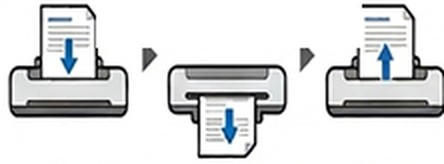
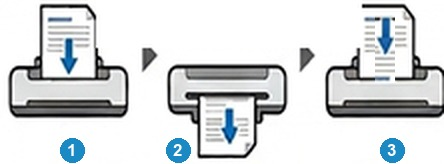
fix: 여러 장 코팅 그림 3번 화살표 방향 수정, 번호 표시 및 순서 설명 추가

diff --git a/guide-coat.html b/guide-coat.html
@@ -312,6 +312,9 @@ footer{background:#111827;color:rgba(255,255,255,.55);padding:60px 6%}
 .adfw-box.pic li img{flex:0 0 auto;width:104px;height:78px;object-fit:contain;background:#fff;border:1px solid #E5E7EB;border-radius:6px}
 .adfw-box.pic li.wide{flex-direction:column;align-items:flex-start;gap:6px}
 .adfw-box.pic li.wide img{width:100%;max-width:240px;height:auto}
+.adfw-box.pic ol.seq{list-style:none;counter-reset:s;margin:8px 0 0;padding:0}
+.adfw-box.pic ol.seq li{display:block;counter-increment:s;position:relative;padding-left:26px;margin-bottom:5px}
+.adfw-box.pic ol.seq li::before{content:counter(s);position:absolute;left:0;top:1px;width:19px;height:19px;border-radius:50%;background:#1B8AC4;color:#fff;font-size:12px;font-weight:900;display:flex;align-items:center;justify-content:center}
 </style>
 </head>
 <body>
@@ -608,7 +611,7 @@ footer{background:#111827;color:rgba(255,255,255,.55);padding:60px 6%}
           <ul>
             <li><img src="images/coat/pl-ok-closed.jpg" alt="막힌 부분부터 넣는 것이 맞고 반대로 넣으면 안 됨" loading="lazy"><div>코팅지의 <b>막힌 부분부터</b> 넣으세요. (필수)</div></li>
             <li><img src="images/coat/pl-s7.jpg" alt="자동으로 빨려 들어갈 때까지 밀어 넣는 모습" loading="lazy"><div><b>코팅기 투입구에 걸쳐 놓지 말고</b>, 구겨지지 않게 조심해서 <b>자동으로 빨려 들어갈 때까지 천천히 밀어 넣으세요.</b></div></li>
-            <li class="wide"><img src="images/coat/pl-ok-multi.jpg" alt="먼저 넣은 코팅지가 나온 뒤 다음 코팅지를 넣는 순서" loading="lazy"><div>여러 장을 코팅할 때는 <b>먼저 넣은 코팅지가 나온 뒤</b> 다음 코팅지를 넣으세요.</div></li>
+            <li class="wide"><img src="images/coat/pl-ok-multi.jpg" alt="먼저 넣은 코팅지가 나온 뒤 다음 코팅지를 넣는 순서" loading="lazy"><div>여러 장을 코팅할 때는 <b>먼저 넣은 코팅지가 나온 뒤</b> 다음 코팅지를 넣으세요.<ol class="seq"><li><b>먼저 넣는 코팅지</b>를 투입구에 넣습니다.</li><li>먼저 넣은 코팅지가 <b>뒤쪽으로 완전히 다 나올 때까지</b> 기다립니다.</li><li>다 나온 것을 확인하고 <b>꺼내 놓은 뒤</b>, <b>다음(나중) 코팅지</b>를 투입구에 넣습니다.</li></ol></div></li>
             <li><img src="images/coat/pl-ok-off.jpg" alt="사용 후 전원 버튼을 눌러 끄는 모습" loading="lazy"><div>사용이 끝나면 <b>전원 버튼을 눌러 전원을 끄세요.</b></div></li>
           </ul>
         </div>
